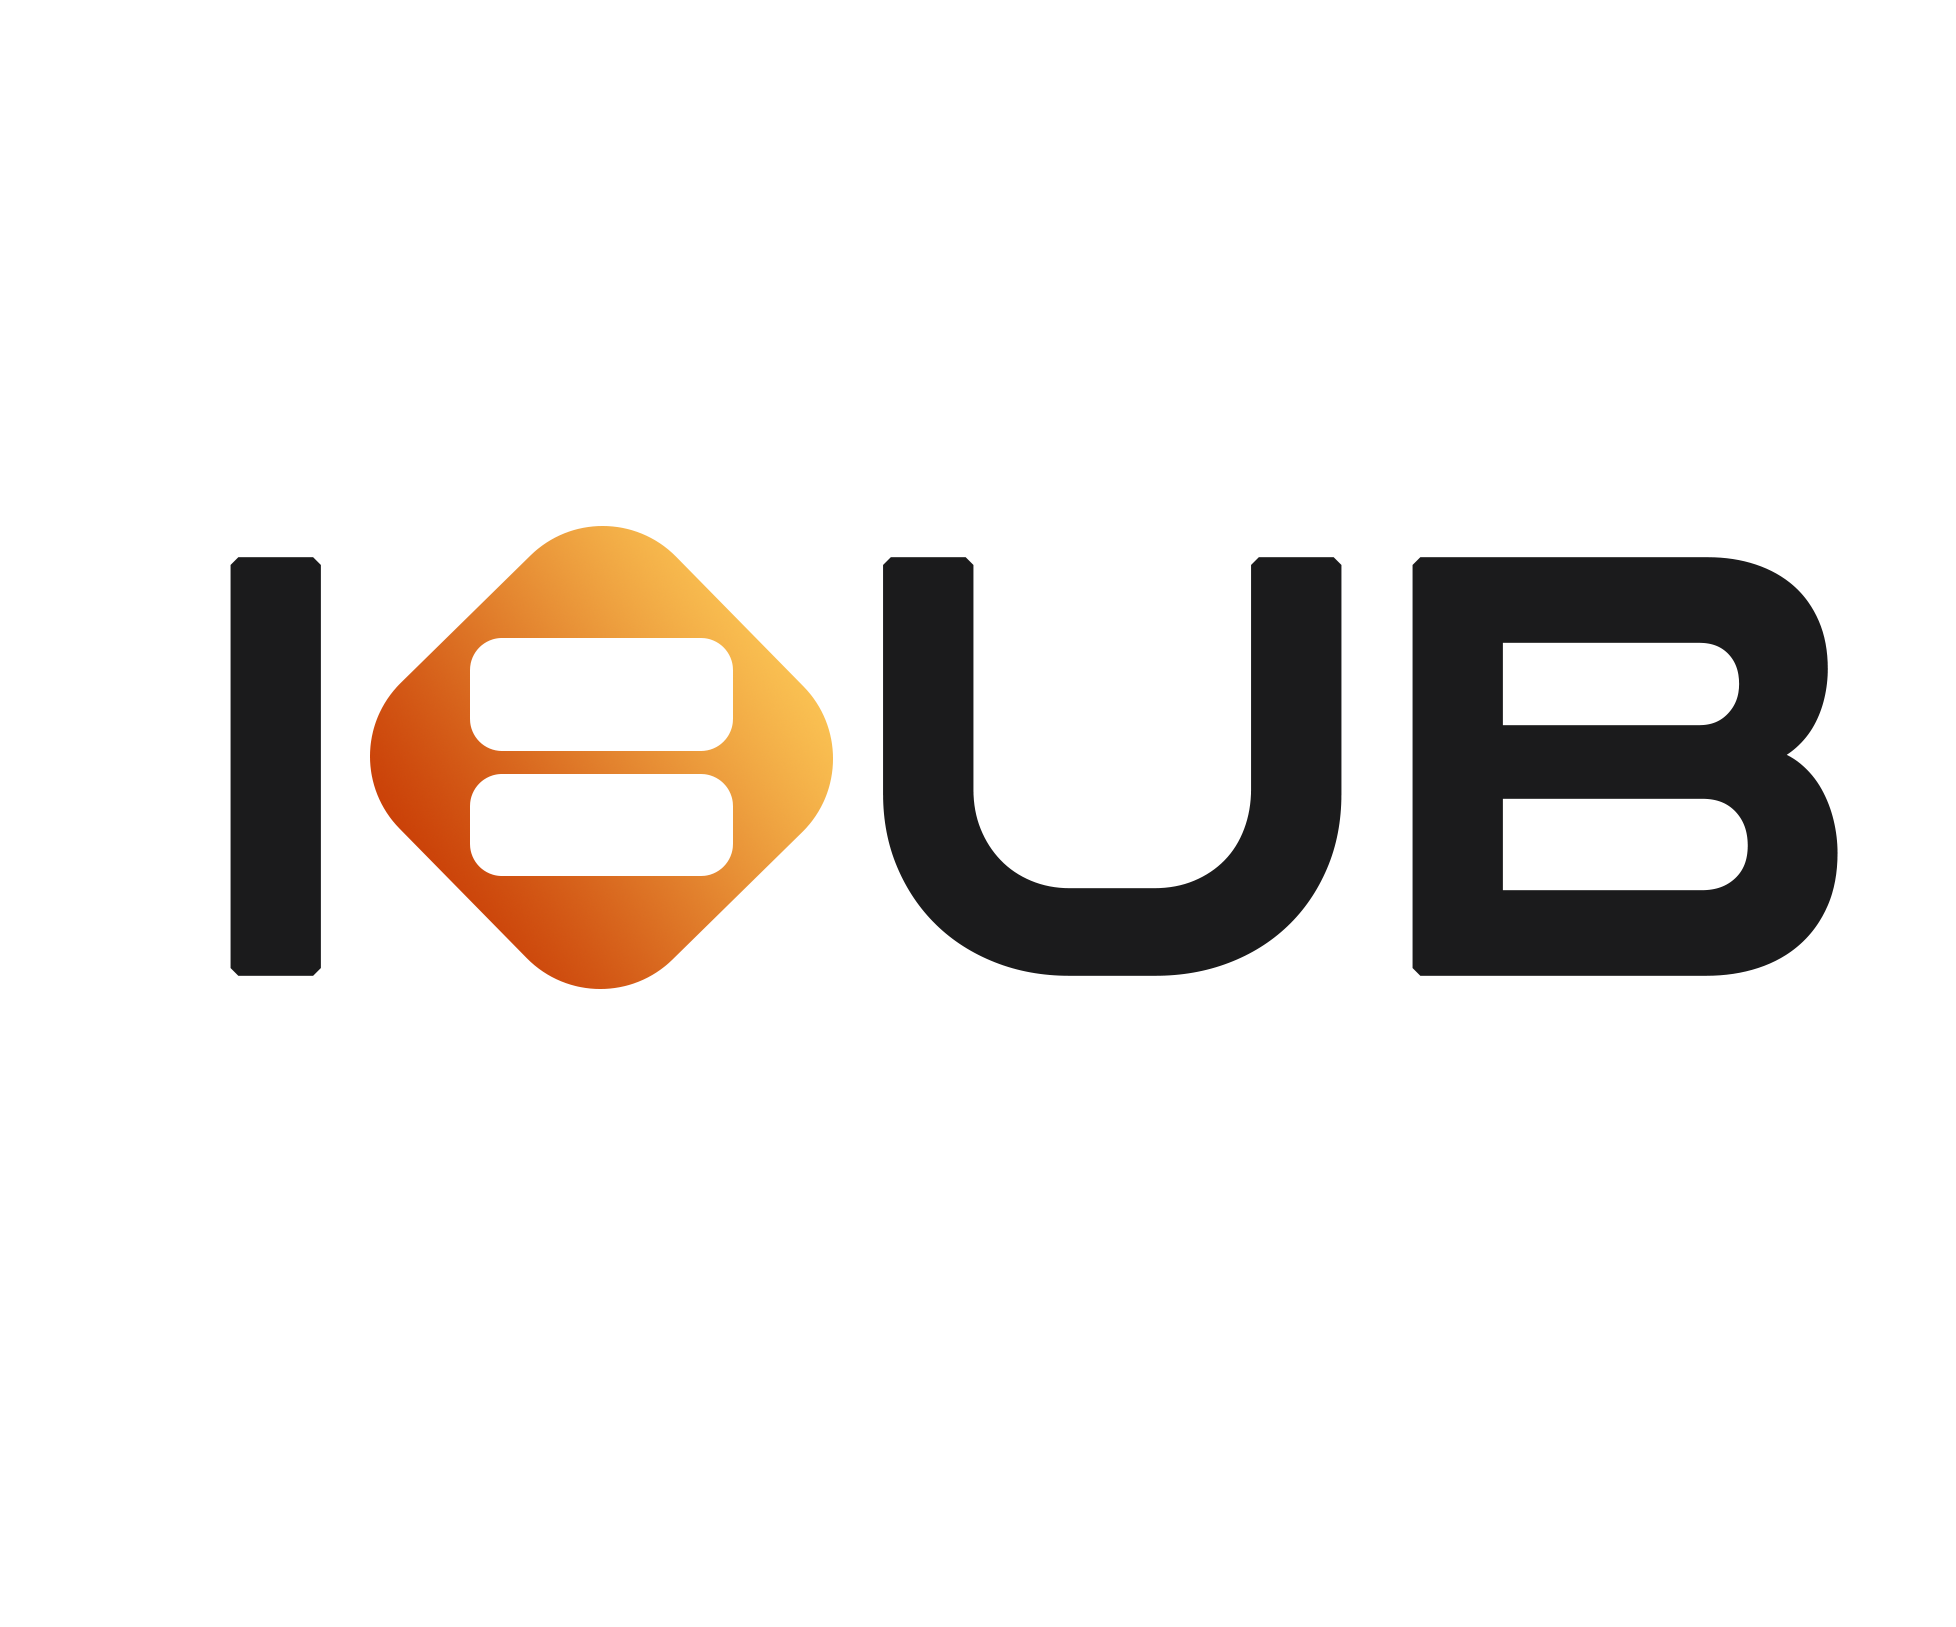
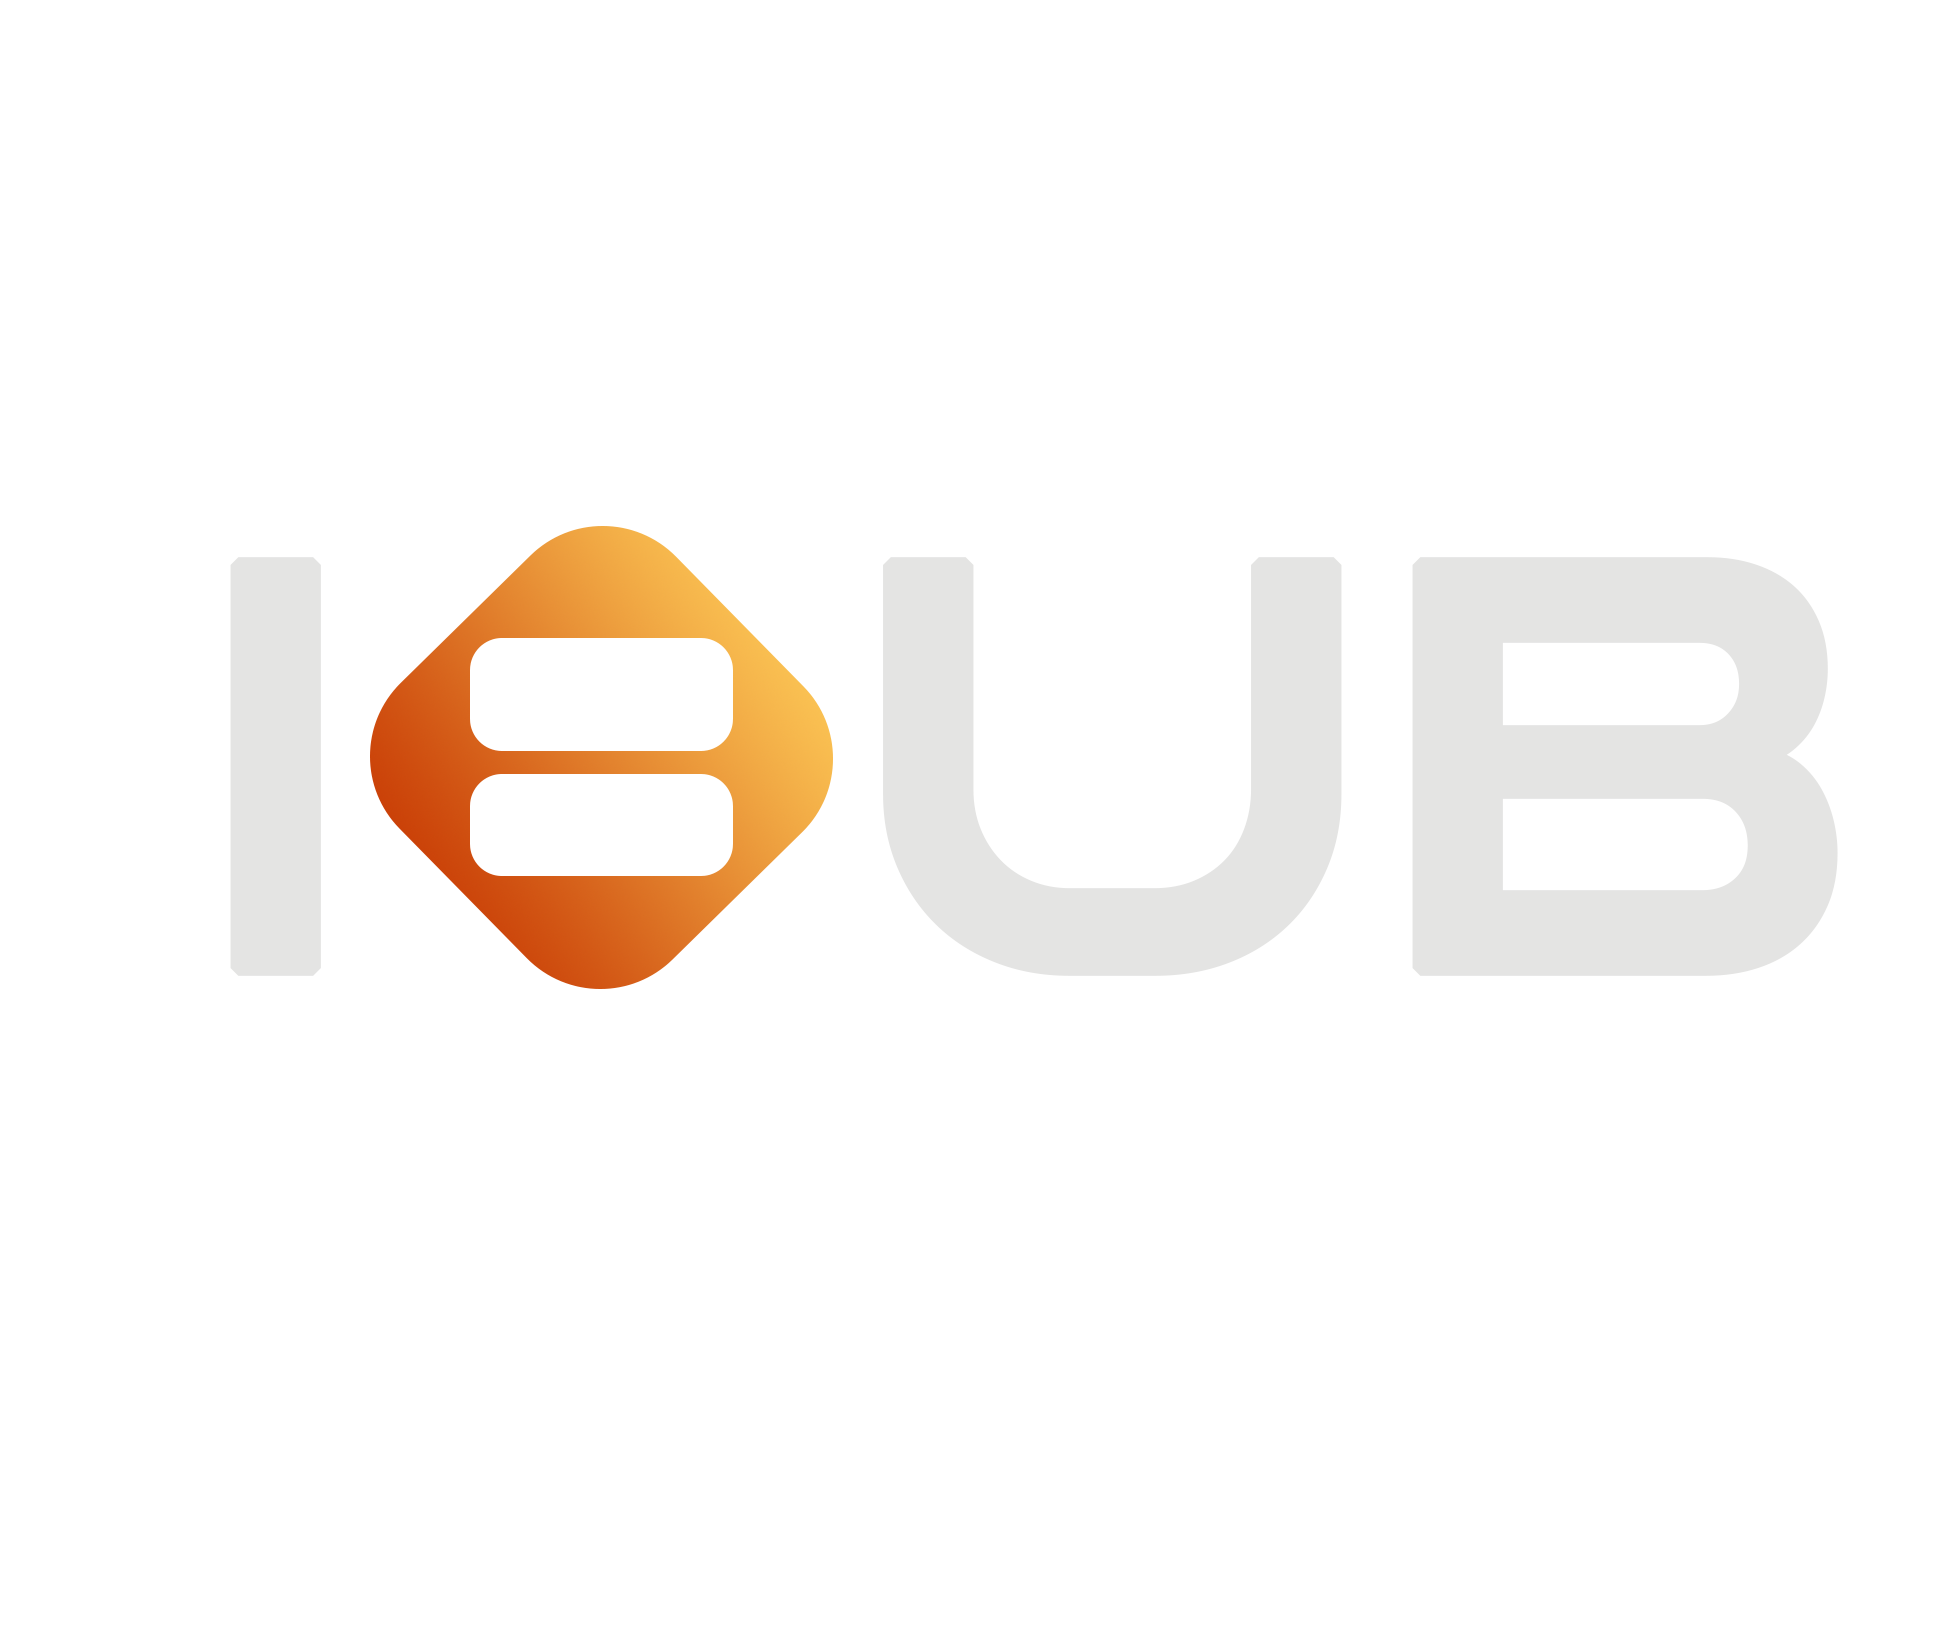
Update images for branding: replace 'test 3.png' with 'ihub reference.png' and modify 'Ihub Final des.png'

Changed region(s): [[0.7173, 0.338, 0.9356, 0.6146], [0.4366, 0.338, 0.6861, 0.6146], [0.0936, 0.338, 0.1871, 0.6146]]

diff --git a/src/components/react/visualeffects.tsx b/src/components/react/visualeffects.tsx
@@ -19,6 +19,8 @@ export default function VisualEffects() {
         { src: 'https://www.youtube.com/embed/SJLsMEyUOSE', title: 'Project 4' },
         { src: 'https://www.youtube.com/embed/01reidY65cs', title: 'Project 5' },
         { src: 'https://www.youtube.com/embed/pCPfKqmUD1c', title: 'Project 6' },
+        { src: 'https://www.youtube.com/embed/Mf9_zYrLzBY', title: 'Project 7' },
+        { src: 'https://www.youtube.com/embed/VW9Fo3Bu_3w', title: 'Project 8' },
 
     ];
 